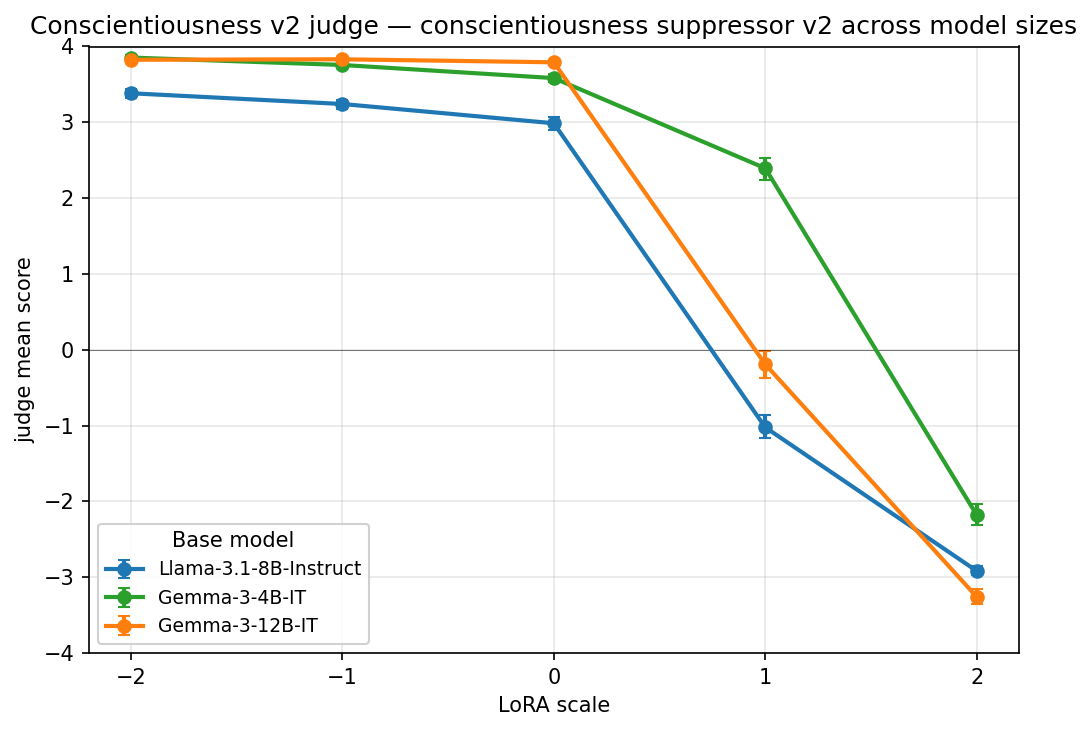
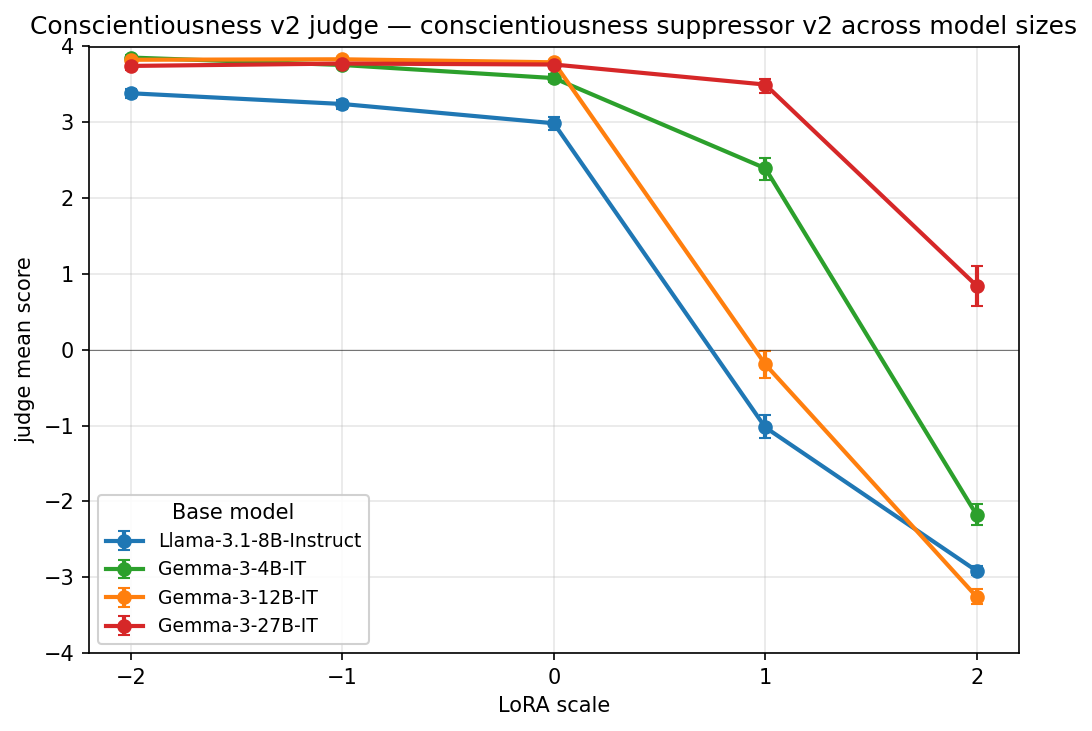
sid/gemma-spider-replacements-and-model-size-sweep finalize g27b run: include Gemma-27B in cross-model plots
- Re-rendered appendix/fig_model_size_consc_sup_v2_{conscientiousness,coherence}.{pdf,png}
  now that gemma-3-27b-it is on HF; 27B is markedly more robust to the C-suppressor
  than 4B/12B (consc stays ~+3.76 through scale +1; coherence stays ~9.0).
- Updated g27b.py to the settings that actually ran to completion on 80GB H100:
  ASSISTANT_MAX_MODEL_LEN=2048, ASSISTANT_GPU_MEMORY_UTILIZATION=0.96,
  ASSISTANT_ENFORCE_EAGER=False, ASSISTANT_BATCH_SIZE=8. Eager mode worked too
  but was ~3× slower (1h24m/cell vs ~30m/cell).

diff --git a/scripts_dev/evals/llm_judge_sweep/configs/gemma_consc_sup/g27b.py b/scripts_dev/evals/llm_judge_sweep/configs/gemma_consc_sup/g27b.py
@@ -23,10 +23,10 @@ BASE_MODEL_SLUG = "gemma-3-27b-it"
 # activations. Default max_model_len=131072 makes vLLM reserve far more KV
 # than we need (prompts + 2048 new tokens stay well under 4k). Cap the context
 # so the engine fits, and reduce the assistant batch size.
-ASSISTANT_MAX_MODEL_LEN = 4096
+ASSISTANT_MAX_MODEL_LEN = 2048
 ASSISTANT_GPU_MEMORY_UTILIZATION = 0.96
-ASSISTANT_ENFORCE_EAGER = True  # skip torch.compile's cudagraph reservation (~few GiB on 27B)
-ASSISTANT_BATCH_SIZE = 16
+ASSISTANT_ENFORCE_EAGER = False  # torch.compile is worth the cudagraph memory hit if we can fit
+ASSISTANT_BATCH_SIZE = 8
 
 EVAL_NAME = "gemma-3-27b-conscientiousness-suppressor-v2"
 TRAIT = OceanTrait.conscientiousness